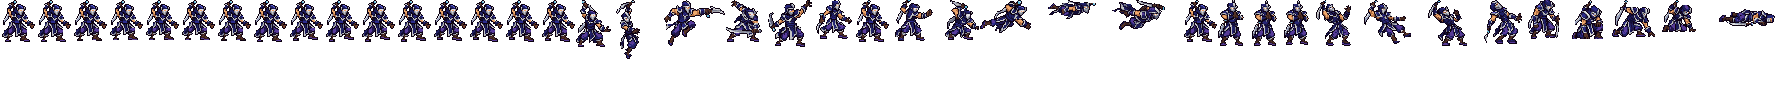
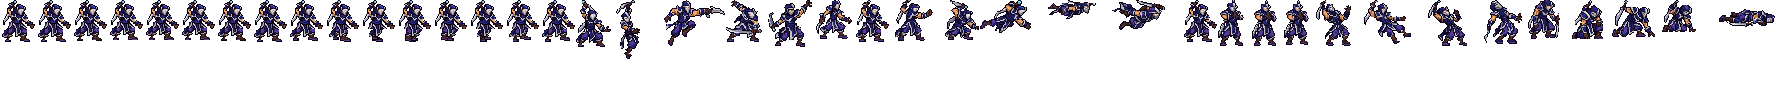
Shen (#85): run = a scissor step of the design's own legs (the lead foot swaps)
The near leg swings forward 11 columns (lifted) while the planted far leg slides back,
then the other way; the tail hem rides with the near leg. Nothing redrawn.

Changed region(s): [[0.1549, 0.2316, 0.3408, 0.4421]]

diff --git a/tools/art/fix_shen_strips.py b/tools/art/fix_shen_strips.py
@@ -51,11 +51,14 @@ PIVOT = (MID, SOLES - 11)
 CANVAS_SQUARE = 1254 / 128
 # The run: a trot of the design's own legs, nothing redrawn (the user: 「腿别变形」「脚也别变形」「颜色都不一致」 after
 # Codex's two skin swaps and legs drawn from League's joints were all rejected). Each leg is the design's leg (rows
-# 85-99, the boot included) moved whole: on its own side, planted 4 frames, then lifted 1-2 rows for 4 frames; the two legs half a cycle apart; the body (rows <= 84) sinks 1 row as a foot lands; the
+# 85-99, the boot included) moved whole (NEAR_STEP / FAR_STEP); the two legs half a cycle apart; the body (rows <= 84) sinks 1 row as a foot lands; the
 # tail hem rides with the near leg (it hangs behind it), the apron stays with the body in front.
-TROT = [(0, 0), (0, 0), (0, 0), (0, 0), (0, 1), (0, 2), (0, 2), (0, 1)]   # (columns from the stance, rows up): a leg
-#       moved sideways opened a slit beside the apron (「这对吗」) - the legs lift in place, the game moves him
-TROT_NEAR, TROT_FAR = 0, 4
+# A scissor step (the user: 「好歹有点换脚的感觉啊 平行走路？？？？」 on legs lifting in place): the near leg swings
+# forward (+x, lifted) while the far leg, planted, slides back (-x), then the other way; each travels 11 columns, so
+# the lead foot swaps (idle: the far foot 18 ahead; frame 5: the near foot 4 ahead). Moving towards and past the
+# apron never opens a slit beside it (a leg moved away from it did: 「这对吗」); the near leg stays in front.
+NEAR_STEP = [(0, 0), (4, 2), (8, 2), (11, 1), (11, 0), (8, 0), (4, 0), (0, 0)]      # (columns, rows up)
+FAR_STEP = [(0, 0), (-4, 0), (-8, 0), (-11, 0), (-11, 0), (-8, 2), (-4, 2), (0, 1)]
 TROT_BOB = [1, 0, 0, 0, 1, 0, 0, 0]
 LEG_TOP = 85
 EYE = (239, 226, 246)
@@ -373,8 +376,8 @@ def trot_parts(des):
 def trot_frame(k, des):
     upper, tail, apron, far, near = trot_parts(des)
     bob = TROT_BOB[k - 1]
-    ndx, nup = TROT[(k - 1 + TROT_NEAR) % 8]
-    fdx, fup = TROT[(k - 1 + TROT_FAR) % 8]
+    ndx, nup = NEAR_STEP[k - 1]
+    fdx, fup = FAR_STEP[k - 1]
     can = np.zeros_like(des)
     for part, dx, dy in ((tail, ndx, bob), (far, fdx, -fup), (near, ndx, -nup), (apron, 0, bob), (upper, 0, bob)):
         p = shift(part, dx, dy)
